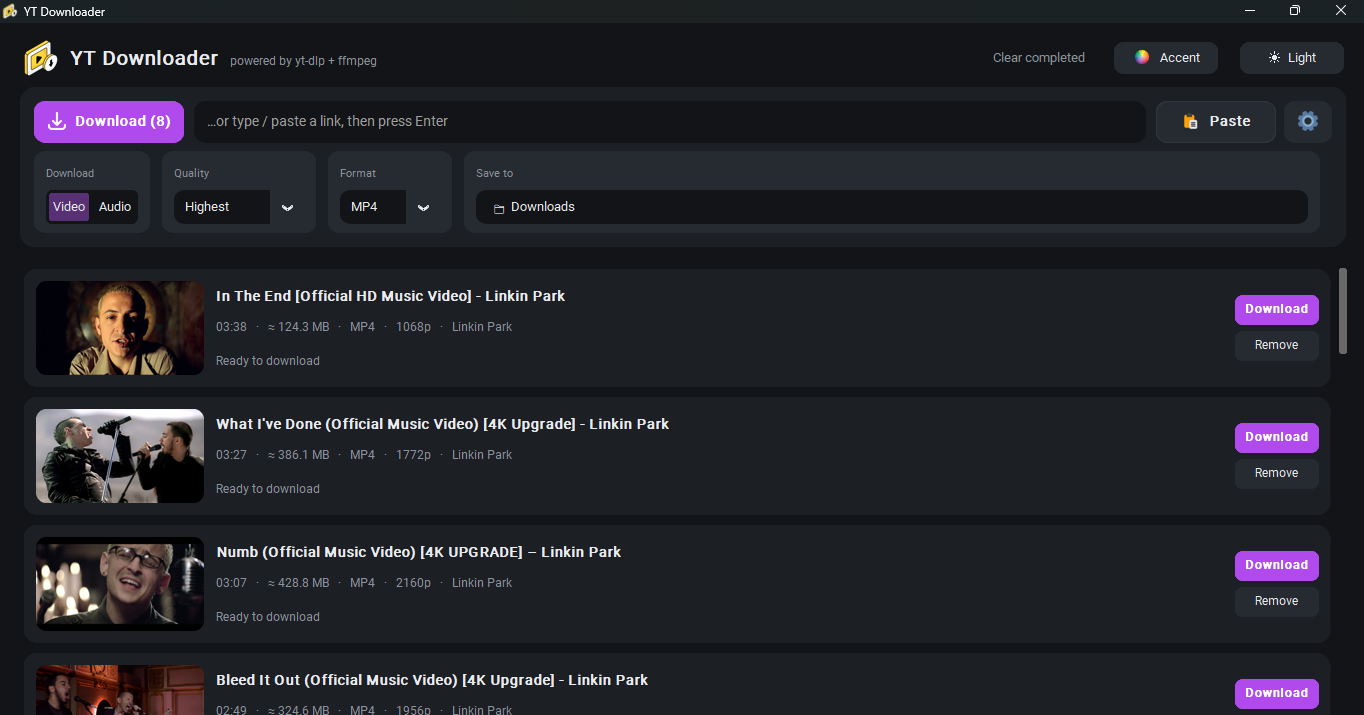
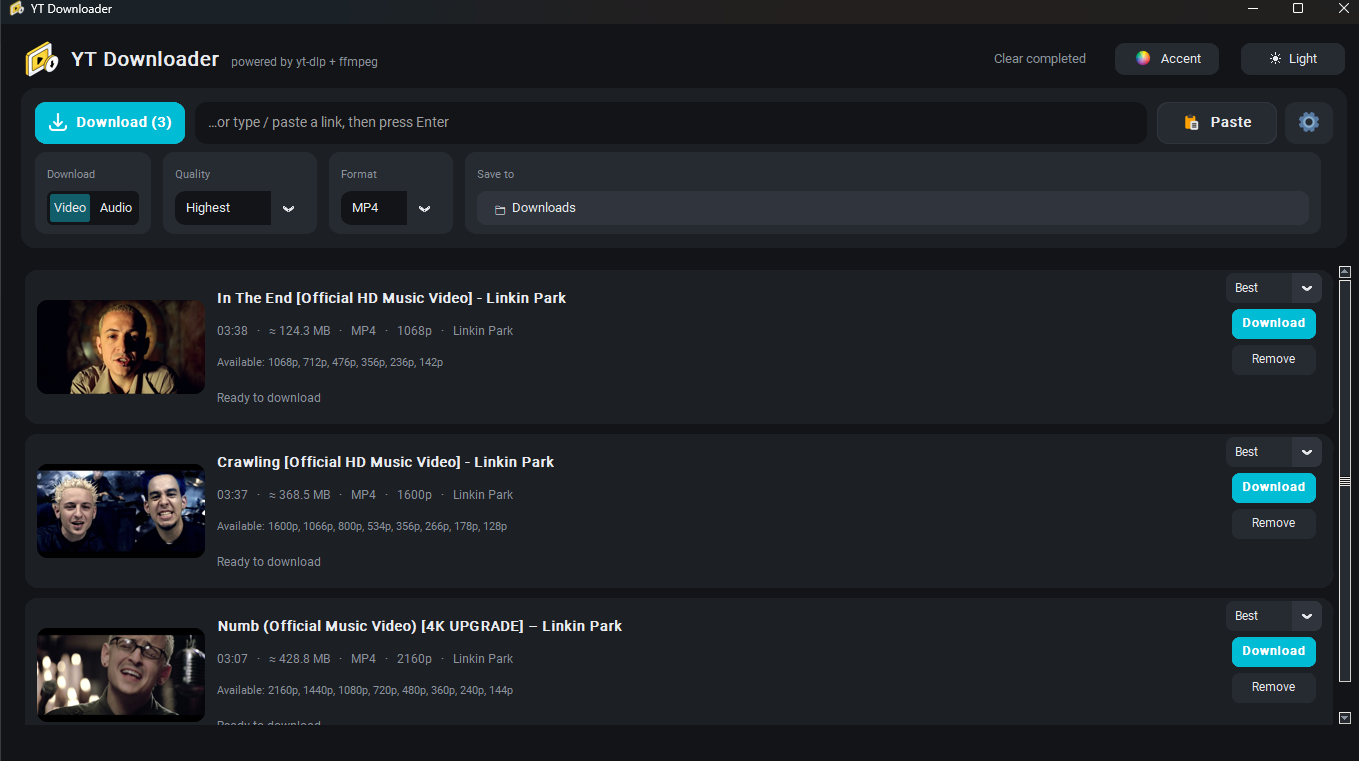
Add files via upload

diff --git a/README.md b/README.md
@@ -2,7 +2,9 @@
 
 A modern desktop video & audio downloader powered by **yt-dlp** and **ffmpeg**.
 Both tools are **downloaded automatically on first run** — nothing to install by hand.
+
 <p align="center"><img src="assets/icon.png" width="96" alt="icon"></p>
+
 ## Download for Windows
 
 **[⬇ Download YT-Downloader.exe](https://github.com/jackhallloween21/video-audio-downloader/releases/latest/download/YT-Downloader.exe)** (~20 MB)
@@ -20,6 +22,21 @@ No installer, no terminal window — just run it. Every published build is attac
 
 ![Light mode](docs/screenshot-light.png)
 
+**Downloading** — live progress, speed and ETA
+
+![Downloading with live progress](docs/downloading-dark.png)
+
+**Completed** — Play / Show file / Remove
+
+![Completed download](docs/completed-dark.png)
+
+**Theme selector** — named accent swatches
+
+![Theme selector](docs/theme-selector.png)
+
+…or dial any color on the wheel
+
+![Accent color wheel](docs/theme-selector-wheel.png)
 
 
 ## Features
@@ -38,6 +55,12 @@ No installer, no terminal window — just run it. Every published build is attac
   (per-row, or the toolbar ⬇ Download button for everything queued) starts them; nothing auto-starts
 - **Pause / resume** — Pause stops a running download and keeps the partial file; Resume continues
   from where it stopped (multi-segment downloads pick up via aria2c's control file)
+- **Crash-safe partials** — unfinished files show up as *Partial file on disk* after a restart
+  or crash, and Resume continues them from where they stopped
+- **Per-row resolution picker** — every queued or paused row has its own resolution dropdown
+  (Best, 1080p, 720p, …) so each download can use a different quality
+- **Flicker-free theming** — theme and accent switches recolour the UI in place, with no white
+  flash or scroll stutter
 - Quality picker, live progress, speed and ETA, cancel / retry
 - Playlists expand into individual items (saved in a sub-folder)
 - Parallel downloads (1–4), embed metadata / thumbnail
